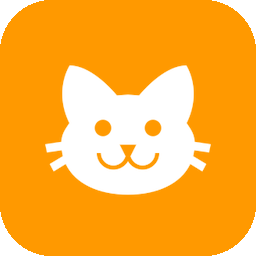
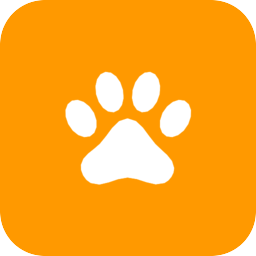
Rename to Cats and Dogs Facts (domain cats_and_dogs_facts)
The dataset now holds cat and dog facts, so the integration gets a
matching name: domain cats_and_dogs_facts, device "Cats and Dogs
Facts", paw icon. The default URL points to the renamed dataset repo.

This is a breaking change: Home Assistant sees a new integration, so
existing installs need to add it again and update their dashboards.
Also bumps manifest.json to 2.0.0 (it still said 1.6.0) and fixes the
README, which mentioned a full_fact attribute that does not exist.

diff --git a/custom_components/cats_and_dogs_facts/button.py b/custom_components/cats_and_dogs_facts/button.py
@@ -4,7 +4,7 @@ from homeassistant.core import HomeAssistant
 from homeassistant.helpers.entity_platform import AddEntitiesCallback
 from homeassistant.helpers.update_coordinator import CoordinatorEntity
 
-from . import CatFactsCoordinator
+from . import CatsAndDogsFactsCoordinator
 from .const import DOMAIN
 
 
@@ -13,23 +13,23 @@ async def async_setup_entry(
     entry: ConfigEntry,
     async_add_entities: AddEntitiesCallback,
 ) -> None:
-    coordinator: CatFactsCoordinator = hass.data[DOMAIN][entry.entry_id]
-    async_add_entities([CatFactNextButton(coordinator, entry)])
+    coordinator: CatsAndDogsFactsCoordinator = hass.data[DOMAIN][entry.entry_id]
+    async_add_entities([CatsAndDogsFactNextButton(coordinator, entry)])
 
 
-class CatFactNextButton(CoordinatorEntity[CatFactsCoordinator], ButtonEntity):
+class CatsAndDogsFactNextButton(CoordinatorEntity[CatsAndDogsFactsCoordinator], ButtonEntity):
     _attr_icon = "mdi:skip-next"
     _attr_has_entity_name = True
     _attr_name = "Next fact"
 
-    def __init__(self, coordinator: CatFactsCoordinator, entry: ConfigEntry) -> None:
+    def __init__(self, coordinator: CatsAndDogsFactsCoordinator, entry: ConfigEntry) -> None:
         super().__init__(coordinator)
         self._attr_unique_id = f"{entry.entry_id}_next"
         self._attr_device_info = {
             "identifiers": {(DOMAIN, entry.entry_id)},
-            "name": "Cat Facts",
+            "name": "Cats and Dogs Facts",
             "manufacturer": "bglnelissen",
-            "model": "Cat Facts",
+            "model": "Cats and Dogs Facts",
         }
 
     async def async_press(self) -> None:

diff --git a/custom_components/cats_and_dogs_facts/sensor.py b/custom_components/cats_and_dogs_facts/sensor.py
@@ -4,7 +4,7 @@ from homeassistant.core import HomeAssistant
 from homeassistant.helpers.entity_platform import AddEntitiesCallback
 from homeassistant.helpers.update_coordinator import CoordinatorEntity
 
-from . import CatFactsCoordinator
+from . import CatsAndDogsFactsCoordinator
 from .const import DOMAIN
 
 
@@ -13,23 +13,23 @@ async def async_setup_entry(
     entry: ConfigEntry,
     async_add_entities: AddEntitiesCallback,
 ) -> None:
-    coordinator: CatFactsCoordinator = hass.data[DOMAIN][entry.entry_id]
-    async_add_entities([CatFactSensor(coordinator, entry)])
+    coordinator: CatsAndDogsFactsCoordinator = hass.data[DOMAIN][entry.entry_id]
+    async_add_entities([CatsAndDogsFactSensor(coordinator, entry)])
 
 
-class CatFactSensor(CoordinatorEntity[CatFactsCoordinator], SensorEntity):
-    _attr_icon = "mdi:cat"
+class CatsAndDogsFactSensor(CoordinatorEntity[CatsAndDogsFactsCoordinator], SensorEntity):
+    _attr_icon = "mdi:paw"
     _attr_has_entity_name = True
     _attr_name = "Fact"
 
-    def __init__(self, coordinator: CatFactsCoordinator, entry: ConfigEntry) -> None:
+    def __init__(self, coordinator: CatsAndDogsFactsCoordinator, entry: ConfigEntry) -> None:
         super().__init__(coordinator)
         self._attr_unique_id = f"{entry.entry_id}_fact"
         self._attr_device_info = {
             "identifiers": {(DOMAIN, entry.entry_id)},
-            "name": "Cat Facts",
+            "name": "Cats and Dogs Facts",
             "manufacturer": "bglnelissen",
-            "model": "Cat Facts",
+            "model": "Cats and Dogs Facts",
         }
 
     @property

diff --git a/custom_components/cats_and_dogs_facts/config_flow.py b/custom_components/cats_and_dogs_facts/config_flow.py
@@ -78,7 +78,7 @@ def _validate_and_process(user_input: dict) -> tuple[dict, dict]:
     return processed, errors
 
 
-class CatFactsConfigFlow(config_entries.ConfigFlow, domain=DOMAIN):
+class CatsAndDogsFactsConfigFlow(config_entries.ConfigFlow, domain=DOMAIN):
     VERSION = 1
 
     async def async_step_user(self, user_input=None):
@@ -86,7 +86,7 @@ class CatFactsConfigFlow(config_entries.ConfigFlow, domain=DOMAIN):
         if user_input is not None:
             processed, errors = _validate_and_process(user_input)
             if not errors:
-                return self.async_create_entry(title="Cat Facts", data={}, options=processed)
+                return self.async_create_entry(title="Cats and Dogs Facts", data={}, options=processed)
         return self.async_show_form(
             step_id="user",
             data_schema=_build_schema(user_input or {}),
@@ -96,10 +96,10 @@ class CatFactsConfigFlow(config_entries.ConfigFlow, domain=DOMAIN):
     @staticmethod
     @callback
     def async_get_options_flow(config_entry):
-        return CatFactsOptionsFlow()
+        return CatsAndDogsFactsOptionsFlow()
 
 
-class CatFactsOptionsFlow(config_entries.OptionsFlow):
+class CatsAndDogsFactsOptionsFlow(config_entries.OptionsFlow):
     async def async_step_init(self, user_input=None):
         errors = {}
         if user_input is not None:

diff --git a/custom_components/cats_and_dogs_facts/__init__.py b/custom_components/cats_and_dogs_facts/__init__.py
@@ -23,7 +23,7 @@ PLATFORMS = ["sensor", "button"]
 
 
 async def async_setup_entry(hass: HomeAssistant, entry: ConfigEntry) -> bool:
-    coordinator = CatFactsCoordinator(hass, entry)
+    coordinator = CatsAndDogsFactsCoordinator(hass, entry)
     try:
         await coordinator.async_config_entry_first_refresh()
     except Exception as err:
@@ -45,7 +45,7 @@ async def _async_reload_entry(hass: HomeAssistant, entry: ConfigEntry) -> None:
     await hass.config_entries.async_reload(entry.entry_id)
 
 
-class CatFactsCoordinator(DataUpdateCoordinator[str]):
+class CatsAndDogsFactsCoordinator(DataUpdateCoordinator[str]):
     def __init__(self, hass: HomeAssistant, entry: ConfigEntry) -> None:
         self._entry = entry
         self._facts: list[str] = []
@@ -84,4 +84,4 @@ class CatFactsCoordinator(DataUpdateCoordinator[str]):
         else:
             raise UpdateFailed(f"Unexpected JSON format at {url}")
 
-        _LOGGER.debug("Loaded %d cat facts from %s", len(self._facts), url)
+        _LOGGER.debug("Loaded %d facts from %s", len(self._facts), url)

diff --git a/custom_components/cats_and_dogs_facts/const.py b/custom_components/cats_and_dogs_facts/const.py
@@ -1,6 +1,6 @@
-DOMAIN = "cat_facts"
+DOMAIN = "cats_and_dogs_facts"
 
-DEFAULT_JSON_URL = "https://raw.githubusercontent.com/bglnelissen/cat-facts-dataset/main/cat_facts.json"
+DEFAULT_JSON_URL = "https://raw.githubusercontent.com/bglnelissen/cats-and-dogs-facts-dataset/main/cats_and_dogs_facts.json"
 DEFAULT_RANDOM = True
 DEFAULT_UPDATE_INTERVAL = 360  # minutes (= 6h)
 

diff --git a/README.md b/README.md
@@ -1,46 +1,53 @@
-# Cat Facts — Home Assistant HACS Integration
+# Cats and Dogs Facts: Home Assistant HACS Integration
 
-A Home Assistant integration that shows a new cat fact on a configurable schedule.
+A Home Assistant integration that shows a new cat or dog fact on a configurable schedule.
+
+This integration used to be called Cat Facts (`cat_facts`). Version 2.0.0 renamed the domain to `cats_and_dogs_facts`, so after upgrading you add the integration again and update any dashboards that used `sensor.cat_facts_fact`.
 
 ## Installation via HACS
 
 1. Open HACS in Home Assistant
 2. Go to Integrations
 3. Click the three dots in the top right and choose "Custom repositories"
-4. Add `https://github.com/bglnelissen/hacs-cat-facts` with category "Integration"
-5. Search for "Cat Facts" and install
+4. Add `https://github.com/bglnelissen/hacs-cats-and-dogs-facts` with category "Integration"
+5. Search for "Cats and Dogs Facts" and install
 6. Restart Home Assistant
-7. Go to Settings > Devices & Services > Add Integration > Cat Facts
+7. Go to Settings > Devices & Services > Add Integration > Cats and Dogs Facts
 
 ## Configuration
 
 | Option | Default | Description |
 |--------|---------|-------------|
-| JSON URL | [cat-facts-dataset](https://raw.githubusercontent.com/bglnelissen/cat-facts-dataset/main/cat_facts.json) | URL to a JSON file with facts |
+| JSON URL | [cats_and_dogs_facts.json](https://raw.githubusercontent.com/bglnelissen/cats-and-dogs-facts-dataset/main/cats_and_dogs_facts.json) | URL to a JSON file with facts |
 | Random order | Yes | Pick a random fact on each update |
-| Update interval | 6 hours | Hours between each new fact (1–168) |
+| Update interval | 6h | Time between each new fact, for example 30m, 6h, 1d or 1d12h (max 7d) |
 
 The JSON file must be either a plain array of strings, or an object with a `facts` key containing an array of strings.
 
-## Sensor
+For Dutch facts, use `https://raw.githubusercontent.com/bglnelissen/cats-and-dogs-facts-dataset/main/cats_and_dogs_facts.nl.json`. Every Dutch fact is at most 160 characters, so it fits on a small e-ink display.
 
-The integration creates one sensor per entry:
+## Entities
 
-- **Entity**: `sensor.cat_facts_fact`
-- **State**: The current cat fact (truncated to 255 characters if longer)
-- **Attribute** `full_fact`: The full untruncated fact text
+The integration creates one device per entry with two entities:
+
+- **Sensor** `sensor.cats_and_dogs_facts_fact`: the current fact, also available as the attribute `fact`
+- **Button** `button.cats_and_dogs_facts_next_fact`: show a new fact right away
 
 ## Data source
 
-The default dataset contains 509 unique cat facts merged from three open source datasets:
+The default dataset contains 716 facts: 509 cat facts and 207 dog facts, mixed in one list.
 
 | Source | License |
 |--------|---------|
 | [alexwohlbruck/cat-facts](https://github.com/alexwohlbruck/cat-facts) | Apache-2.0 |
 | [vadimdemedes/cat-facts](https://github.com/vadimdemedes/cat-facts) | MIT |
 | [wh-iterabb-it/meowfacts](https://github.com/wh-iterabb-it/meowfacts) | MIT |
+| [DucNgn/Dog-Facts-API-v2](https://github.com/DucNgn/Dog-Facts-API-v2) | MIT |
+| [kinduff/dog-api](https://github.com/kinduff/dog-api) (original collection of the dog facts) | none stated |
 
-Dataset repository: [bglnelissen/cat-facts-dataset](https://github.com/bglnelissen/cat-facts-dataset)
+Dataset repository: [bglnelissen/cats-and-dogs-facts-dataset](https://github.com/bglnelissen/cats-and-dogs-facts-dataset)
+
+The icon is the `paw` icon from [Material Design Icons](https://pictogrammers.com/library/mdi/) (Apache-2.0).
 
 ## License
 
